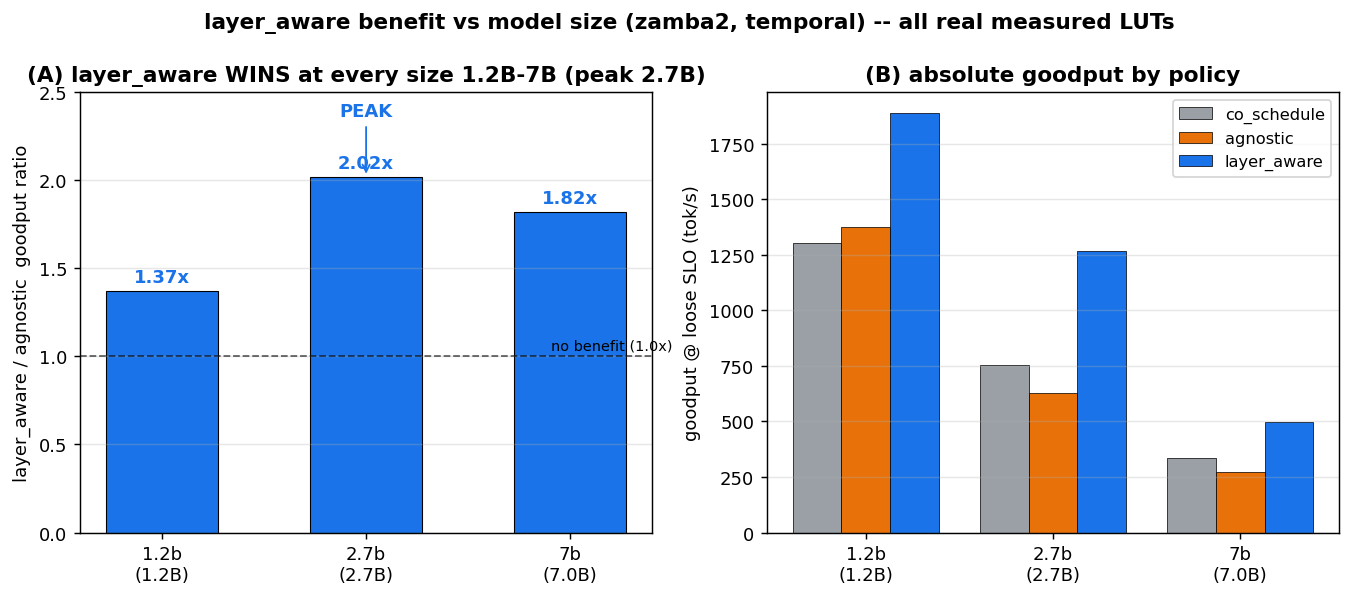
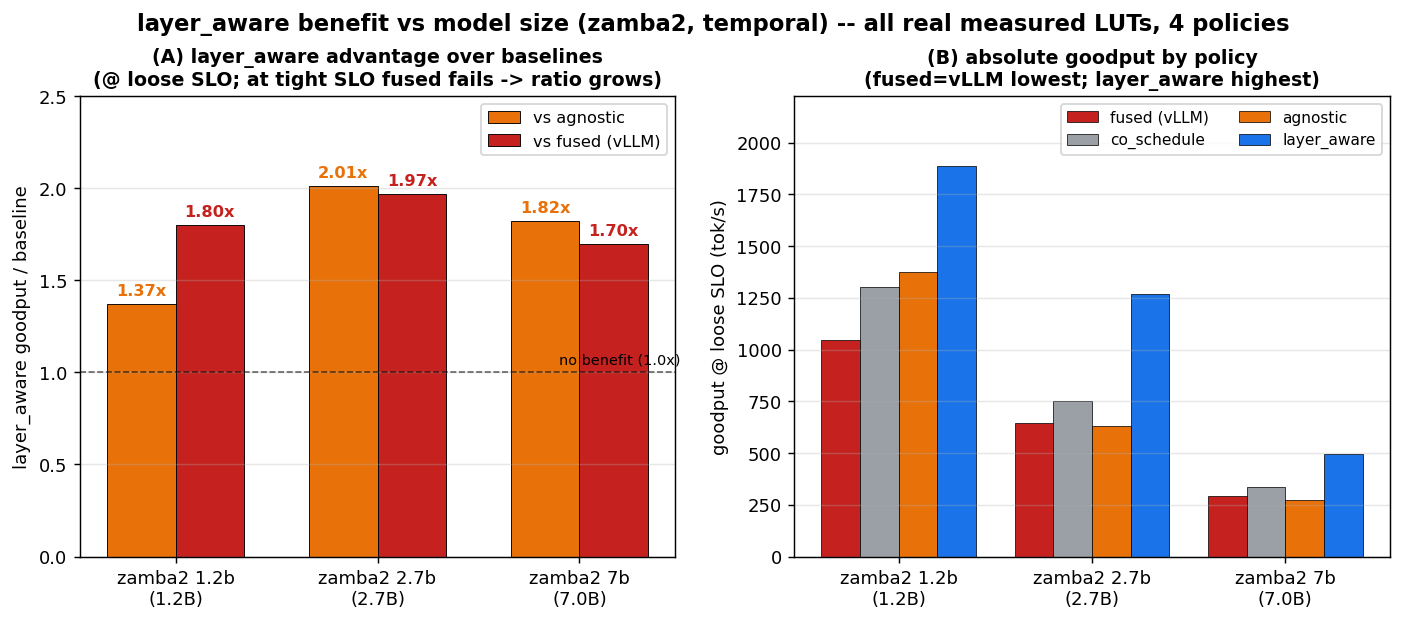
layer_aware_size_trend: include fused -> 4-policy
Panel A now shows layer_aware advantage over BOTH baselines: vs agnostic (1.37/2.01/1.82x) and
vs fused/vLLM (1.80/1.97/1.70x), with a note that these are loose-SLO ratios (at tight SLO fused
fails -> ratio grows). Panel B: 4-policy absolute goodput (fused/co_schedule/agnostic/
layer_aware) -- fused is the lowest throughput, layer_aware highest, across 1.2/2.7/7B.
Throughput from 4-way run_layer_aware. Updated figure_index.

diff --git a/workspace/characterization/experiments/e6_queue_sim/make_size_trend_fig.py b/workspace/characterization/experiments/e6_queue_sim/make_size_trend_fig.py
@@ -1,70 +1,67 @@
-"""Size trend of the layer_aware benefit across zamba2 1.2B / 2.7B / 7B.
-
-la/agnostic goodput ratio (SLO-loose = throughput ratio): 1.2b 1.37x, 2.7b 2.0x (PEAK), 7b 1.06x.
-=> the lever is an SLM phenomenon, NON-monotone, peaking at 2.7B; gone at 7B.
-1.2b/2.7b from real measured LUTs; 7b from the synth LUT (real E5 ssm-decode failed, OSError).
-Output: reports/figures/layer_aware_size_trend.png
+"""Size trend of the layer_aware benefit across zamba2 1.2B / 2.7B / 7B, including fused (vLLM).
+(A) layer_aware advantage over each baseline (vs agnostic, vs fused).
+(B) absolute goodput @ loose SLO for all 4 policies (fused / co_schedule / agnostic / layer_aware).
+All from real measured LUTs. Output: reports/figures/layer_aware_size_trend.png
 """
-from __future__ import annotations
-import os, sys
+import os
 from pathlib import Path
 import numpy as np
 import matplotlib
 matplotlib.use("Agg")
 import matplotlib.pyplot as plt
 
-_here = os.path.dirname(os.path.abspath(__file__))
-_CHAR = os.path.abspath(os.path.join(_here, "..", ".."))
+_CHAR = os.path.abspath(os.path.join(os.path.dirname(__file__), "..", ".."))
+FUS, CO, AG, LA = "#c5221f", "#9aa0a6", "#e8710a", "#1a73e8"
 
-# (model, params, co, agnostic, layer_aware, source)
+# (model, params_B, fused, co_schedule, agnostic, layer_aware)  -- goodput @ loose SLO (tok/s)
 DATA = [
-    ("zamba2_1.2b", 1.2, 1302, 1376, 1887, "real"),
-    ("zamba2_2.7b", 2.7, 752, 629, 1268, "real"),
-    ("zamba2_7b", 7.0, 337, 273, 496, "real"),    # clean LUT w/ E3 ssm floor (job 797832)
+    ("1.2b", 1.2, 1047, 1301, 1374, 1885),
+    ("2.7b", 2.7, 644, 752, 629, 1267),
+    ("7b",  7.0, 292, 337, 272, 496),
 ]
-names = [d[0].replace("zamba2_", "") for d in DATA]
-ratio = [d[4] / d[3] for d in DATA]              # la / agnostic
-COLco, COLag, COLla = "#9aa0a6", "#e8710a", "#1a73e8"
-
-fig, (ax1, ax2) = plt.subplots(1, 2, figsize=(12.5, 4.4))
-
-# --- left: la/agnostic ratio vs size ---
 x = np.arange(len(DATA))
-bars = ax1.bar(x, ratio, 0.55,
-               color=["#1a73e8", "#1a73e8", "#1a73e8"],
-               edgecolor="k", linewidth=0.6)
-ax1.axhline(1.0, color="k", lw=1, ls="--", alpha=0.6)
-ax1.text(len(DATA) - 0.5, 1.02, "no benefit (1.0x)", ha="right", va="bottom", fontsize=8, color="k")
-for i, (r, d) in enumerate(zip(ratio, DATA)):
-    tag = f"{r:.2f}x" + ("" if d[5] == "real" else "\n(synth*)")
-    ax1.text(i, r + 0.03, tag, ha="center", va="bottom", fontsize=10, fontweight="bold",
-             color="#1a73e8")
-ax1.annotate("PEAK", xy=(1, ratio[1]), xytext=(1, ratio[1] + 0.35),
-             ha="center", fontsize=10, fontweight="bold", color="#1a73e8",
-             arrowprops=dict(arrowstyle="->", color="#1a73e8"))
-ax1.set_xticks(x); ax1.set_xticklabels([f"{n}\n({d[1]}B)" for n, d in zip(names, DATA)])
-ax1.set_ylabel("layer_aware / agnostic  goodput ratio")
-ax1.set_title("(A) layer_aware WINS at every size 1.2B-7B (peak 2.7B)", fontweight="bold")
+fus = [d[2] for d in DATA]; co = [d[3] for d in DATA]; ag = [d[4] for d in DATA]; la = [d[5] for d in DATA]
+
+fig, (ax1, ax2) = plt.subplots(1, 2, figsize=(13, 4.6))
+
+# --- (A) layer_aware advantage vs each baseline ---
+r_ag = [la[i] / ag[i] for i in range(len(DATA))]
+r_fu = [la[i] / fus[i] for i in range(len(DATA))]
+w = 0.34
+b1 = ax1.bar(x - w / 2, r_ag, w, label="vs agnostic", color=AG, edgecolor="k", linewidth=0.5)
+b2 = ax1.bar(x + w / 2, r_fu, w, label="vs fused (vLLM)", color=FUS, edgecolor="k", linewidth=0.5)
+for i in range(len(DATA)):
+    ax1.text(i - w / 2, r_ag[i] + 0.03, f"{r_ag[i]:.2f}x", ha="center", va="bottom", fontsize=9, fontweight="bold", color=AG)
+    ax1.text(i + w / 2, r_fu[i] + 0.03, f"{r_fu[i]:.2f}x", ha="center", va="bottom", fontsize=9, fontweight="bold", color=FUS)
+ax1.axhline(1.0, color="k", ls="--", lw=0.9, alpha=0.6)
+ax1.text(len(DATA) - 0.5, 1.03, "no benefit (1.0x)", ha="right", va="bottom", fontsize=8)
+ax1.set_xticks(x); ax1.set_xticklabels([f"zamba2 {d[0]}\n({d[1]}B)" for d in DATA])
+ax1.set_ylabel("layer_aware goodput / baseline")
+ax1.set_title("(A) layer_aware advantage over baselines\n(@ loose SLO; at tight SLO fused fails -> ratio grows)",
+              fontsize=10.5, fontweight="bold")
 ax1.set_ylim(0, 2.5)
+ax1.legend(fontsize=9, loc="upper right")
 ax1.grid(axis="y", alpha=0.3)
 
-# --- right: absolute goodput, 3 policies x 3 models ---
-w = 0.26
-for k, (lab, idx, col) in enumerate([("co_schedule", 2, COLco), ("agnostic", 3, COLag), ("layer_aware", 4, COLla)]):
-    vals = [d[idx] for d in DATA]
-    ax2.bar(x + (k - 1) * w, vals, w, label=lab, color=col, edgecolor="k", linewidth=0.4)
-ax2.set_xticks(x); ax2.set_xticklabels([f"{n}\n({d[1]}B)" for n, d in zip(names, DATA)])
+# --- (B) absolute goodput, 4 policies x 3 models ---
+w = 0.2
+for k, (lab, vals, col) in enumerate([("fused (vLLM)", fus, FUS), ("co_schedule", co, CO),
+                                       ("agnostic", ag, AG), ("layer_aware", la, LA)]):
+    ax2.bar(x + (k - 1.5) * w, vals, w, label=lab, color=col, edgecolor="k", linewidth=0.4)
+ax2.set_xticks(x); ax2.set_xticklabels([f"zamba2 {d[0]}\n({d[1]}B)" for d in DATA])
 ax2.set_ylabel("goodput @ loose SLO (tok/s)")
-ax2.set_title("(B) absolute goodput by policy", fontweight="bold")
-ax2.legend(fontsize=9)
+ax2.set_title("(B) absolute goodput by policy\n(fused=vLLM lowest; layer_aware highest)",
+              fontsize=10.5, fontweight="bold")
+ax2.legend(fontsize=8.5, ncol=2, loc="upper right")
 ax2.grid(axis="y", alpha=0.3)
+ax2.set_ylim(0, max(la) * 1.18)
 
-fig.suptitle("layer_aware benefit vs model size (zamba2, temporal) -- all real measured LUTs",
-             fontsize=12, fontweight="bold", y=1.02)
+fig.suptitle("layer_aware benefit vs model size (zamba2, temporal) -- all real measured LUTs, 4 policies",
+             fontsize=12.5, fontweight="bold", y=1.02)
 out = Path(_CHAR).parents[1] / "reports" / "figures"
-out.mkdir(parents=True, exist_ok=True)
-f = out / "layer_aware_size_trend.png"
-fig.savefig(f, dpi=130, bbox_inches="tight")
-print(f"wrote {f}")
-for n, d in zip(names, DATA):
-    print(f"  {n}: co={d[2]} ag={d[3]} la={d[4]} -> la/ag={d[4]/d[3]:.2f}x [{d[5]}]")
+p = out / "layer_aware_size_trend.png"
+fig.savefig(p, dpi=130, bbox_inches="tight")
+print(f"wrote {p}")
+for d in DATA:
+    print(f"  {d[0]}: fused {d[2]} co {d[3]} agnostic {d[4]} layer_aware {d[5]}  "
+          f"(la/ag {d[5]/d[4]:.2f}x, la/fused {d[5]/d[2]:.2f}x)")

diff --git a/reports/figure_index.md b/reports/figure_index.md
@@ -21,7 +21,7 @@
 |---|---|---|---|
 | **summary_dashboard.png** | 3-panel | (A) la/agnostic goodput 1.37/2.02/1.82× (zamba2 크기별) · (B) attn-decode 비용 판별자(zamba2 0.59ms vs falcon 0.056ms) · (C) vLLM sim-vs-실측 decode 비율 | 프로젝트 전체 헤드라인 1장 |
 | **layer_aware_result.png** | 2-panel | (A) **goodput vs SLO** — 4정책(fused/co_schedule/agnostic/layer_aware) 곡선 + layer_aware 우위 음영 · (B) tradeoff: throughput 막대 + TTFT·ITL(우축 log) | layer_aware vs 전 baseline(fused=vLLM 포함) (zamba2_2.7b) |
-| **layer_aware_size_trend.png** | 2-panel | (A) **la/agnostic 비율** 1.37/2.02/1.82× (peak 2.7B) · (B) 정책별 절대 goodput(co/agnostic/layer_aware) 모델별 | layer_aware가 1.2B–7B 전 구간 이득 |
+| **layer_aware_size_trend.png** | 2-panel | (A) layer_aware 우위: **vs agnostic** 1.37/2.01/1.82× · **vs fused(vLLM)** 1.80/1.97/1.70× (loose SLO; tight선 fused 실패→비율↑) · (B) **4정책**(fused/co/agnostic/layer_aware) 절대 goodput(fused 최저·la 최고) | layer_aware가 1.2B–7B 전 구간 이득 |
 | **temporal_vs_spatial.png** | 2-panel | (A) zamba2(temporal): 9개 *비싼* attn 스파이크 + 45개 싼 ssm (분리 가능) · (B) falcon(spatial): 매 레이어 attn(GQA로 작음)+ssm 병렬 | **왜 temporal-only인가** (per-layer decode 구조) |
 | **layer_aware_applicability.png** | 2-panel | zamba2(temporal, attn/ssm 분리→적용 ✓) vs falcon(spatial, 병렬→N/A) 레이어 배치 도식 | 적용 범위 = temporal 하이브리드 |
 | **prefill_sm_sensitivity.png** | 2-panel | (A) ssm-prefill SM-민감도 곡선 (1.2/2.7/7B 거의 겹침) · (B) attn-prefill 곡선 — 108→14 SM 비율 | prefill SM-민감도는 **크기-불변**(7B도 민감) |
